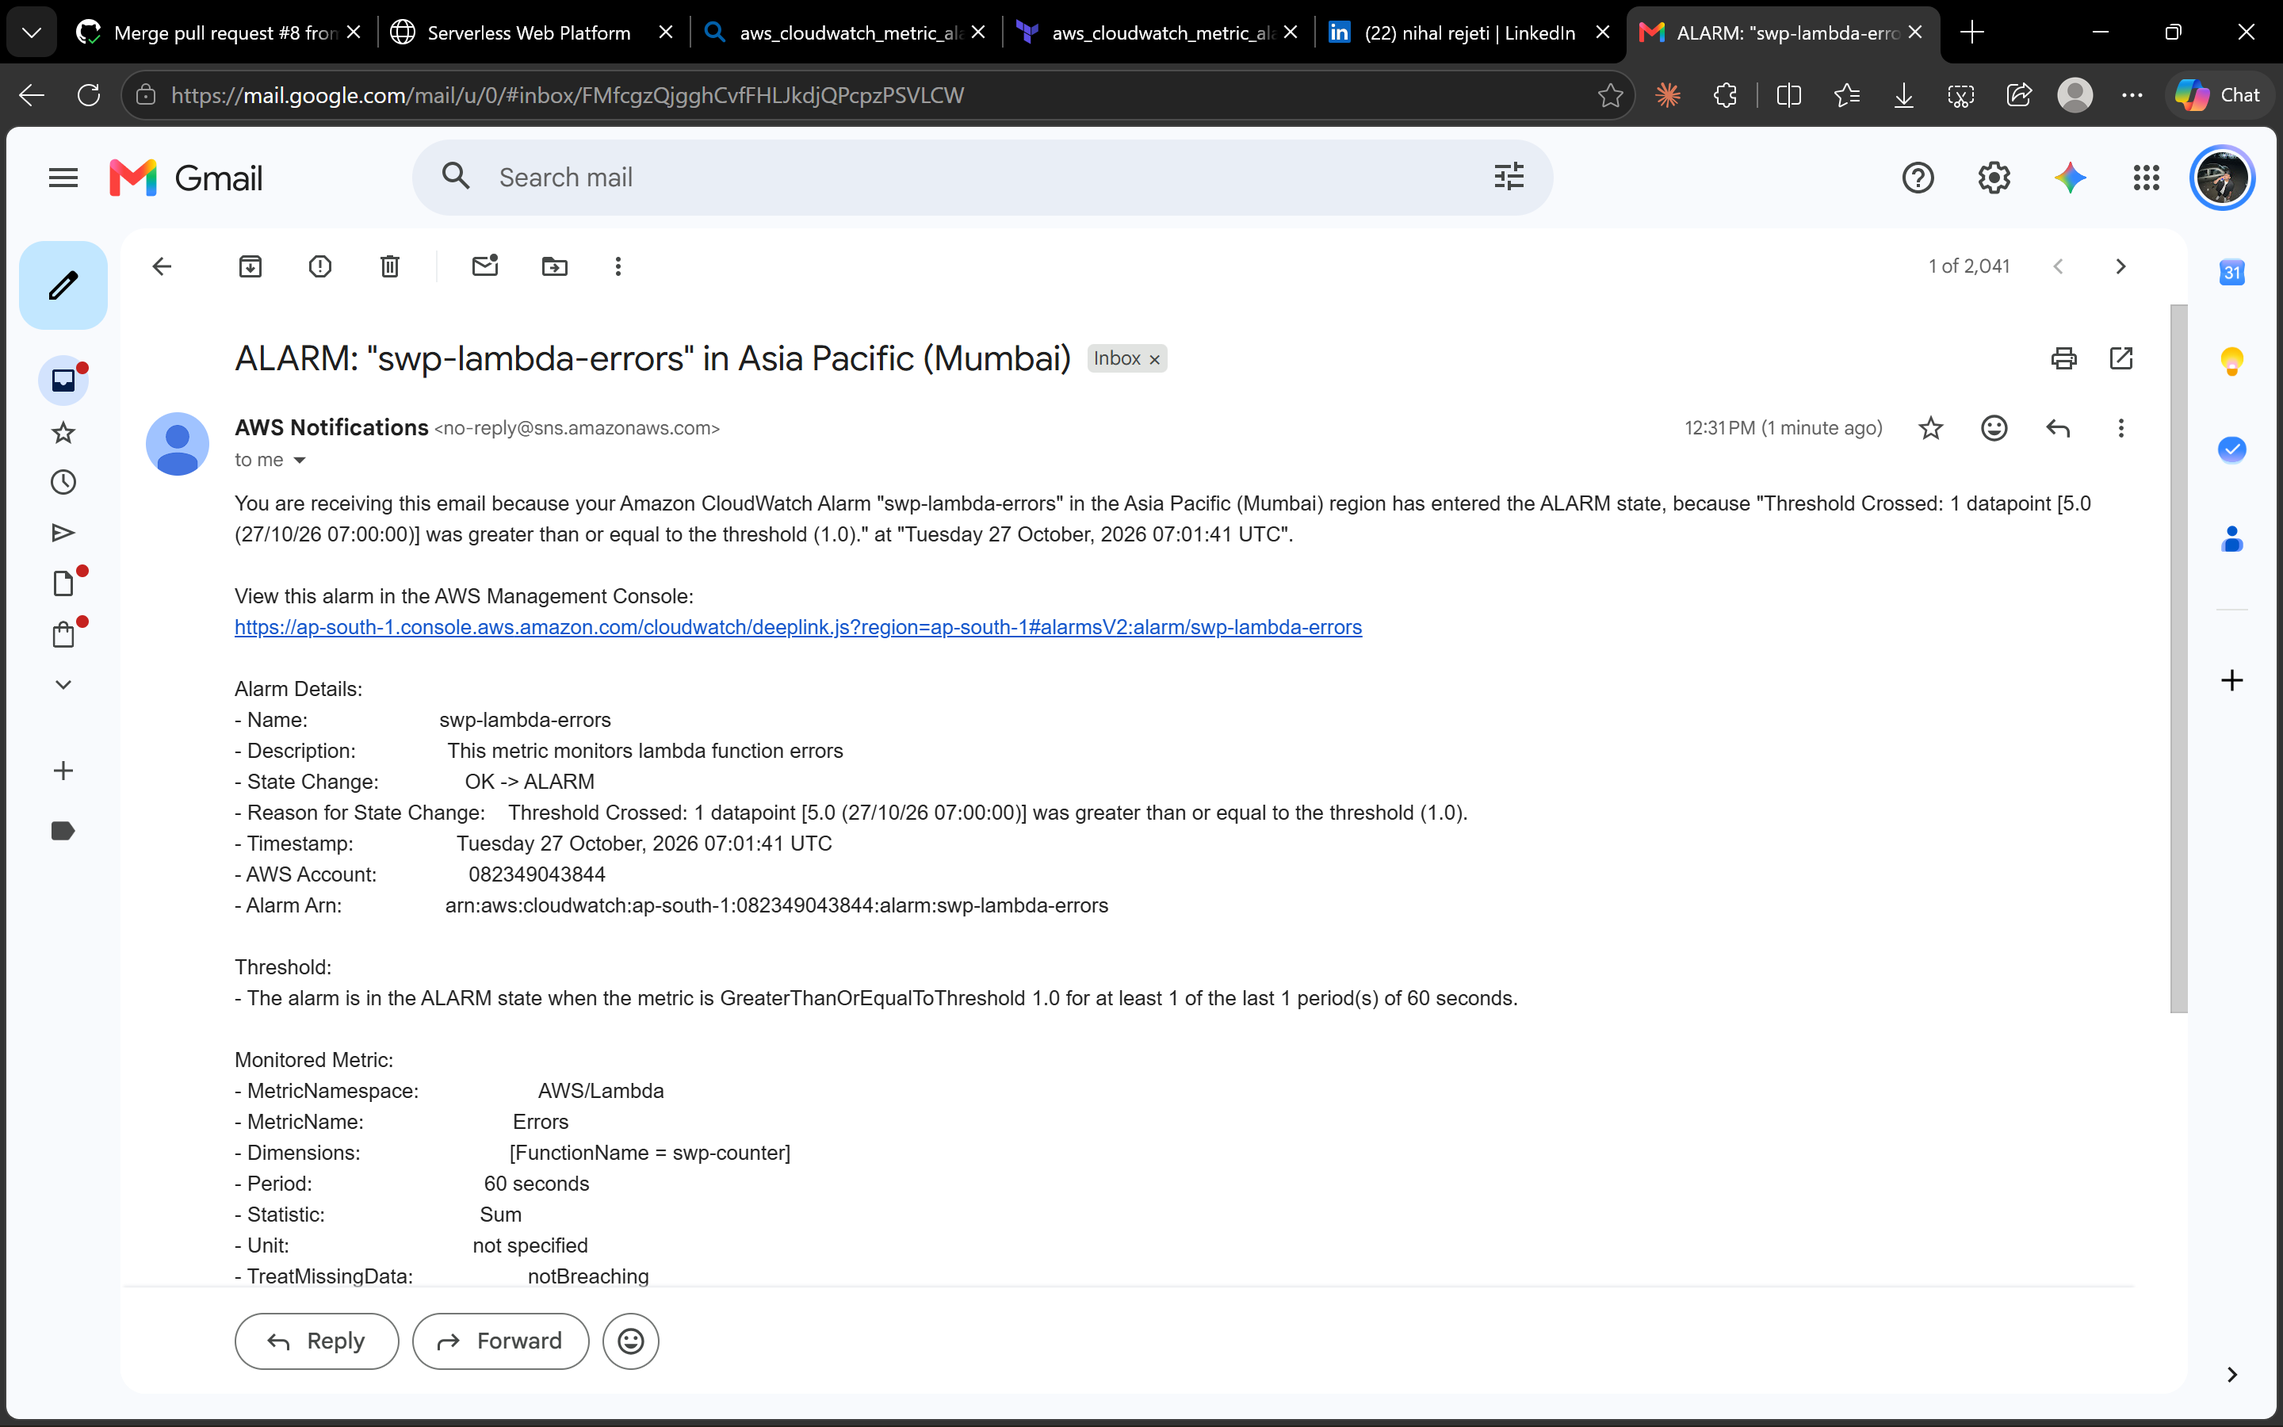
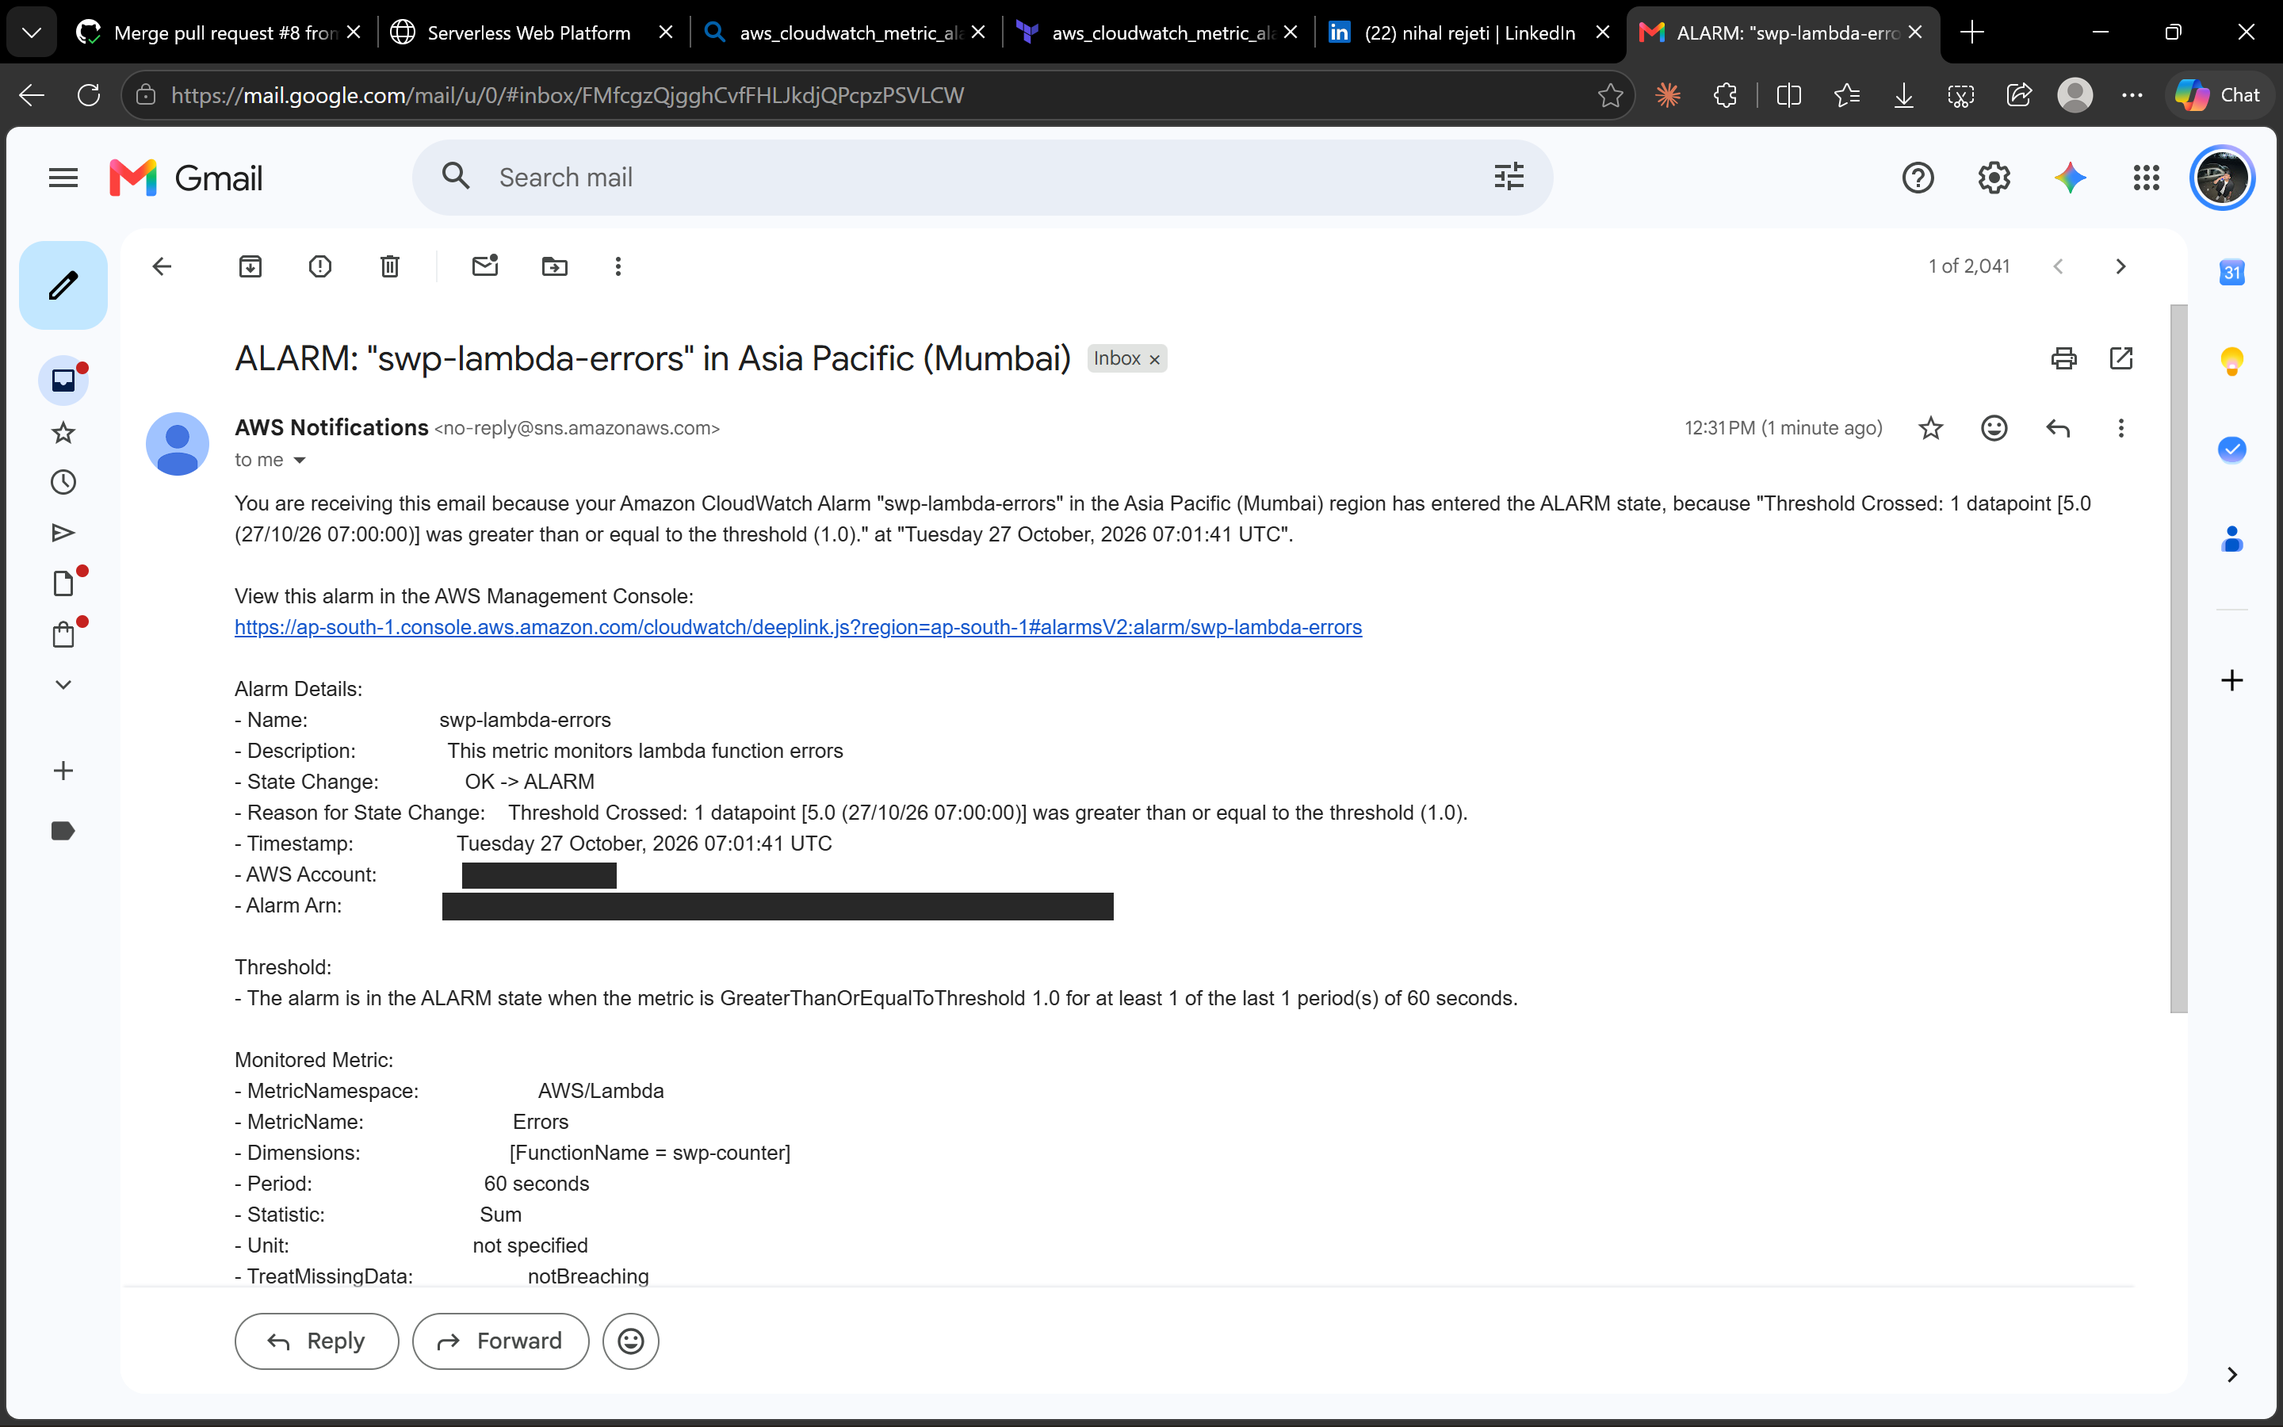
13.4: readme with architecture, decisions and screenshots; redact account id

Changed region(s): [[0.1875, 0.5911, 0.5, 0.6533]]

diff --git a/README.md b/README.md
@@ -1,1 +1,277 @@
-# serverless-web-platform
+# Serverless Web Platform on AWS
+
+A static website with a live visitor counter, built on serverless AWS services. All of it is defined in Terraform and deployed by a GitHub Actions pipeline with no stored AWS keys.
+
+**Live site:** https://d285acfpj92rpu.cloudfront.net
+*(The account runs on the AWS Free Plan, so the live site may go offline when the plan period ends. The screenshots below show it working.)*
+
+![Site running with the visitor counter](docs/02-counter-working.png)
+
+---
+
+## What it does
+
+- **Static site:** HTML and JavaScript served by CloudFront from a private S3 bucket.
+- **Visitor counter:** the page calls an HTTP API. A Lambda function (a Docker image) adds 1 to a counter in DynamoDB and returns the new value.
+- **Infrastructure as code:** every AWS resource is in Terraform, with remote state in S3.
+- **CI/CD:** a pull request runs checks and posts the Terraform plan as a comment. A merge to `main` builds, scans and deploys everything.
+- **Security scanning:** Trivy scans the container image before it is pushed, and scans the Terraform on every pull request.
+- **Monitoring and cost:** a CloudWatch alarm emails me when the Lambda fails, and a monthly budget emails me before costs pass $5.
+
+---
+
+## Architecture
+
+```mermaid
+flowchart LR
+    subgraph req["Request path"]
+        U[Browser] -->|HTTPS| CF[CloudFront]
+        CF -->|"OAC signed request"| S3[(S3 bucket<br/>private)]
+        U -->|"GET /count"| API[API Gateway<br/>HTTP API]
+        API --> L[Lambda<br/>container image]
+        L -->|UpdateItem| DB[(DynamoDB)]
+    end
+
+    subgraph mon["Monitoring"]
+        L -.->|Errors metric| CW[CloudWatch alarm]
+        CW --> SNS[SNS topic] --> MAIL[Email]
+    end
+
+    subgraph dep["Deploy path"]
+        PR[Pull request] -->|"pr.yml: fmt, validate, Trivy, plan"| GH[GitHub Actions]
+        M[Merge to main] -->|deploy.yml| GH
+        GH -->|"OIDC, short-lived credentials"| AWS[AWS account]
+        GH -->|"build, Trivy scan, push"| ECR[(ECR)]
+        GH -->|terraform apply| TF[(Terraform state<br/>in S3)]
+        GH -->|"s3 sync and invalidation"| S3
+    end
+```
+
+**How a visit works:**
+1. The browser loads `index.html` and `app.js` from CloudFront. The bucket is private, so only this CloudFront distribution can read it.
+2. `app.js` calls `GET /count` on API Gateway.
+3. API Gateway invokes the Lambda. It increases the counter in DynamoDB with one atomic update and returns `{"count": N}`.
+
+---
+
+## Screenshots
+
+**Pull request gate.** Every PR runs `fmt`, `validate`, a Trivy scan and `plan`, then posts the results as a comment. Nothing reaches AWS without a reviewed plan.
+
+![PR with the Terraform checks comment](docs/07-trivy-scan-success.png)
+
+**Alarm tested on purpose.** I deployed a broken Lambda, sent requests to it, and watched the alarm fire and the email arrive. Then I reverted the change through a PR.
+
+![CloudWatch alarm in ALARM state](docs/04-alarm-triggered.png)
+
+![Alarm email from SNS](docs/05-alarm-email.png)
+
+**Deploy on merge.** A merge to `main` deploys in about 90 seconds with no manual steps.
+
+![Deploy workflow run](docs/06-deploy-pipeline-success.png)
+
+---
+
+## Tech stack
+
+| Area | Tool | What it does here |
+|---|---|---|
+| CDN | CloudFront | HTTPS, caching, compression, security headers, access logs |
+| Static hosting | S3 | Private bucket, read only through Origin Access Control |
+| API | API Gateway (HTTP API) | One route, `GET /count`, with CORS |
+| Compute | Lambda (Python 3.12, container image) | Increases and returns the counter |
+| Database | DynamoDB (on-demand) | Stores the counter; point-in-time recovery on |
+| Images | ECR | Immutable tags, scan on push, keeps the last 5 images |
+| IaC | Terraform 1.16, AWS provider 5.x | All resources; state in S3 with native locking |
+| CI/CD | GitHub Actions | `pr.yml` (review) and `deploy.yml` (deploy) |
+| Auth for CI | GitHub OIDC + IAM role | Short-lived credentials, no stored keys |
+| Security scanning | Trivy | Image scan before push; Terraform scan on PRs |
+| Monitoring | CloudWatch + SNS | Lambda error alarm, email alerts, 14-day log retention |
+| Cost control | AWS Budgets | $5 monthly budget, email at 80% |
+
+---
+
+## CI/CD pipeline
+
+**`pr.yml` runs on every pull request to `main`:**
+
+1. `terraform fmt -check`
+2. `terraform init` and `terraform validate`
+3. Trivy scan of `infra/` (fails on HIGH or CRITICAL)
+4. `terraform plan` (read-only, `-lock=false`)
+5. Posts all results and the plan as a PR comment
+6. Fails the job at the end if any check failed
+
+Every check runs even when an earlier one fails, so the comment always shows the full picture.
+
+**`deploy.yml` runs on every push to `main`:**
+
+1. Assumes the AWS role through OIDC
+2. Builds the Docker image, tagged with the commit SHA
+3. **Scans the image with Trivy before pushing.** A vulnerable image never reaches ECR.
+4. Pushes the image to ECR
+5. `terraform apply` with `image_tag` set to the commit SHA, so the Lambda runs the image built from this commit
+6. Syncs `frontend/` to S3 and clears the CloudFront cache
+
+Each deploy maps to exactly one commit. To roll back, I revert the PR, and the pipeline deploys the previous code again.
+
+---
+
+## Security
+
+- **Private S3 bucket.** Public access is blocked. The bucket policy allows only `s3:GetObject`, and only for this CloudFront distribution (checked with `AWS:SourceArn`).
+- **No AWS keys in GitHub.** The pipeline gets temporary credentials through OIDC. The only secret, `AWS_ROLE_ARN`, is an identifier, not a credential.
+- **Tight OIDC trust policy.** The role can only be assumed by this repository, and only from pull requests or the `main` branch.
+- **Least privilege for the Lambda.** It may only call `dynamodb:UpdateItem` on its own table, plus write its own logs.
+- **API Gateway permission is scoped** to this API's ARN, so no other API can invoke the function.
+- **Encryption.** Terraform state is encrypted in S3. The site and log buckets use SSE-S3, and DynamoDB is encrypted at rest by default.
+- **Security headers** on every response: HSTS, `X-Content-Type-Options: nosniff`, `X-Frame-Options: DENY` and a strict referrer policy.
+- **Immutable image tags.** A pushed tag can never be overwritten.
+- **Scanning in CI.** Trivy checks the image and the Terraform. I either fixed each finding or wrote down why I accepted it (see below).
+
+### Accepted scanner findings
+
+Each accepted finding has a comment next to it in the code explaining why.
+
+| Finding | Why I accepted it |
+|---|---|
+| CloudFront has no WAF (AWS-0011) | A WAF is billed monthly and is outside the free tier. The bucket is private and the site is static. |
+| S3 buckets don't use a customer-managed KMS key (AWS-0132) | A customer-managed key costs money; the data is already encrypted with SSE-S3. For the log bucket, SSE-KMS isn't supported for log delivery. |
+| SNS topic isn't encrypted (AWS-0095) | CloudWatch alarms can't publish to a topic encrypted with the default AWS-managed key, so encrypting it with that key would silently break alerts. A customer-managed key costs money, and the messages hold no sensitive data. |
+| CVE in `aws-lambda-rie` (in `.trivyignore`) | The Runtime Interface Emulator is AWS's local-testing tool in the base image. It isn't run by the Lambda service, and a package upgrade can't patch it. |
+
+---
+
+## Problems I found and how I fixed them
+
+These are the parts I learned the most from.
+
+**1. The pipeline was green, but it never deployed new code.**
+The Lambda's `image_uri` was hard-coded to the first `bootstrap` tag. Every deploy built and pushed a new image, then Terraform saw nothing to change. I found it during the alarm test, because a deliberately broken version kept returning `200`. I checked which image the Lambda was running with `aws lambda get-function`, and changed `image_uri` to use the `image_tag` variable.
+
+**2. The alarm could never fire.**
+The handler caught every exception and returned a clean `500`. To the Lambda service, that is a successful run, so the `Errors` metric stayed at zero. I changed the handler to log the error and re-raise it.
+
+**3. The OIDC role refused GitHub.**
+GitHub changed its OIDC subject format for repositories created after July 2026: it now includes numeric owner and repository IDs. My trust policy used the old format. I printed the token's `sub` claim in a temporary workflow step and updated the policy. A later failure on `main` showed I had allowed only pull requests, so I listed the two exact subjects instead of a wildcard.
+
+**4. `dnf update` patched nothing.**
+Trivy reported 43 HIGH findings in the base image's system packages, all with fixes available. Amazon Linux 2023 locks packages to the image's release version, so a plain update said "nothing to do". Using `dnf upgrade --releasever=latest` brought the OS findings to zero.
+
+**5. The budget would have stayed silent.**
+I copied a Terraform example that filtered the budget to EC2 only. This project has no EC2, so the budget could never reach its limit. I removed the filter so it covers all services.
+
+**6. Logs kept forever.**
+Lambda creates its log group automatically, with no expiry. I brought it under Terraform with an `import` block and set retention to 14 days.
+
+---
+
+## Key decisions
+
+- **Serverless instead of a server.** Lambda, DynamoDB and API Gateway cost nothing when idle and need no patching or scaling work.
+- **Lambda as a container image.** It shows the full Docker workflow (build, scan, push to a registry) instead of a zip upload.
+- **Separate review and deploy workflows.** `pr.yml` can only read and plan; `deploy.yml` changes AWS. A change reaches AWS only after a reviewed plan.
+- **Scan before push.** Scanning after the push would leave a vulnerable image in the registry where Lambda could use it.
+- **Commit SHA as the image tag.** Every running version maps to one commit, and with immutable tags a version can't be replaced silently.
+- **S3 native state locking** (`use_lockfile`) instead of a separate DynamoDB lock table. It is one less resource to create and manage.
+- **Origin Access Control** instead of the older Origin Access Identity, because OAC is AWS's current recommendation and signs requests with SigV4.
+
+---
+
+## Repository layout
+
+```
+.
+├── app/                  Lambda code and Dockerfile
+├── frontend/             index.html and app.js
+├── infra/                Terraform (one file per area)
+│   ├── s3_cloudfront.tf  site bucket, log bucket, CloudFront, bucket policy
+│   ├── apigateway.tf     HTTP API, route, Lambda permission
+│   ├── lambda.tf         Lambda function and its IAM role
+│   ├── lambda_ecr.tf     ECR repository and lifecycle policy
+│   ├── dynamodb.tf       counter table
+│   ├── iam_github_oidc.tf  OIDC provider and GitHub Actions role
+│   ├── monitoring.tf     SNS topic, alarm, log group
+│   ├── budget.tf         monthly budget
+│   └── backend.tf, providers.tf, variables.tf, outputs.tf
+├── .github/workflows/    pr.yml and deploy.yml
+└── docs/                 screenshots
+```
+
+---
+
+## Setting it up from scratch
+
+Prerequisites: an AWS account, the AWS CLI, Terraform 1.11 or newer, and Docker.
+
+There are two one-time "chicken-and-egg" steps, because Terraform needs some things to exist before it can manage the rest.
+
+**1. Create the state bucket by hand.** Terraform stores its state in S3, so that bucket must exist before `terraform init`. Pick a unique name and set it in `infra/backend.tf`:
+
+```bash
+aws s3api create-bucket --bucket <your-state-bucket> --region ap-south-1 \
+  --create-bucket-configuration LocationConstraint=ap-south-1
+aws s3api put-bucket-versioning --bucket <your-state-bucket> \
+  --versioning-configuration Status=Enabled
+```
+
+**2. Push a first image before creating the Lambda.** A Lambda that uses a container image can't be created until an image exists in ECR:
+
+```bash
+cd infra
+terraform init
+terraform apply -target=aws_ecr_repository.swp_counter_ecr
+
+REPO=$(terraform output -raw ecr_repository_url)
+aws ecr get-login-password --region ap-south-1 | docker login --username AWS --password-stdin ${REPO%%/*}
+docker build --provenance=false -t $REPO:bootstrap ../app
+docker push $REPO:bootstrap
+
+terraform apply
+```
+
+**3. Connect GitHub.** Set the `sub` values in `infra/iam_github_oidc.tf` for your own repository (read them from a workflow run, since new repositories use the ID-based format). Then add the role ARN as a repository secret named `AWS_ROLE_ARN`:
+
+```bash
+terraform output -raw github_role_arn
+```
+
+Also change `alert_email` in `infra/variables.tf` to your own address, and confirm the SNS subscription email that AWS sends you.
+
+From then on, every change goes through a pull request, and the pipeline does all deploys. Don't run `terraform apply` locally after this: the `image_tag` variable defaults to `bootstrap`, so a local apply would point the Lambda back at the first image.
+
+---
+
+## Cost
+
+The bill for October 2026 was **$0.00**. Everything runs inside AWS free tier limits:
+
+| Service | Free tier | Usage this month |
+|---|---|---|
+| CloudFront | 10M requests and 1,000 invalidation paths per month | about 100 requests, 3 invalidations |
+| Lambda | 1M requests per month | well under 1% of the limit |
+| DynamoDB | 25 GB storage, on-demand requests cost fractions of a cent | one item |
+| S3 | a few MB of static files | |
+| ECR | 500 MB storage | last 5 images kept by the lifecycle policy |
+
+A $5 monthly budget emails me at 80% of actual spend, as a safety net.
+
+---
+
+## Known limitations and what I'd do next
+
+- **The GitHub Actions role has `AdministratorAccess`.** Next step: narrow it to the exact actions the pipeline uses.
+- **I use the root user in the console.** Next step: an IAM Identity Center user for daily work, and MFA-only root.
+- **One region and one environment.** Next step: separate `dev` and `prod` with Terraform workspaces or separate state files.
+- **No custom domain.** The site uses the default `*.cloudfront.net` certificate, so the minimum TLS version can't be raised. Next step: Route 53 and an ACM certificate.
+- **The API has no rate limiting.** Next step: throttling on the API Gateway stage.
+- **No API access logs or Lambda tracing.** Next step: API Gateway access logs and X-Ray.
+- **No WAF or customer-managed KMS keys,** for cost reasons (see accepted findings).
+- **The API URL is hard-coded in `app.js`.** Next step: inject it at deploy time from `terraform output`.
+- **No automated tests for the Lambda.** Next step: unit tests with a mocked DynamoDB, run in `pr.yml`.
+
+---
+
+## Author
+
+**Nihal Rejeti** · [GitHub](https://github.com/NihalRejet)
